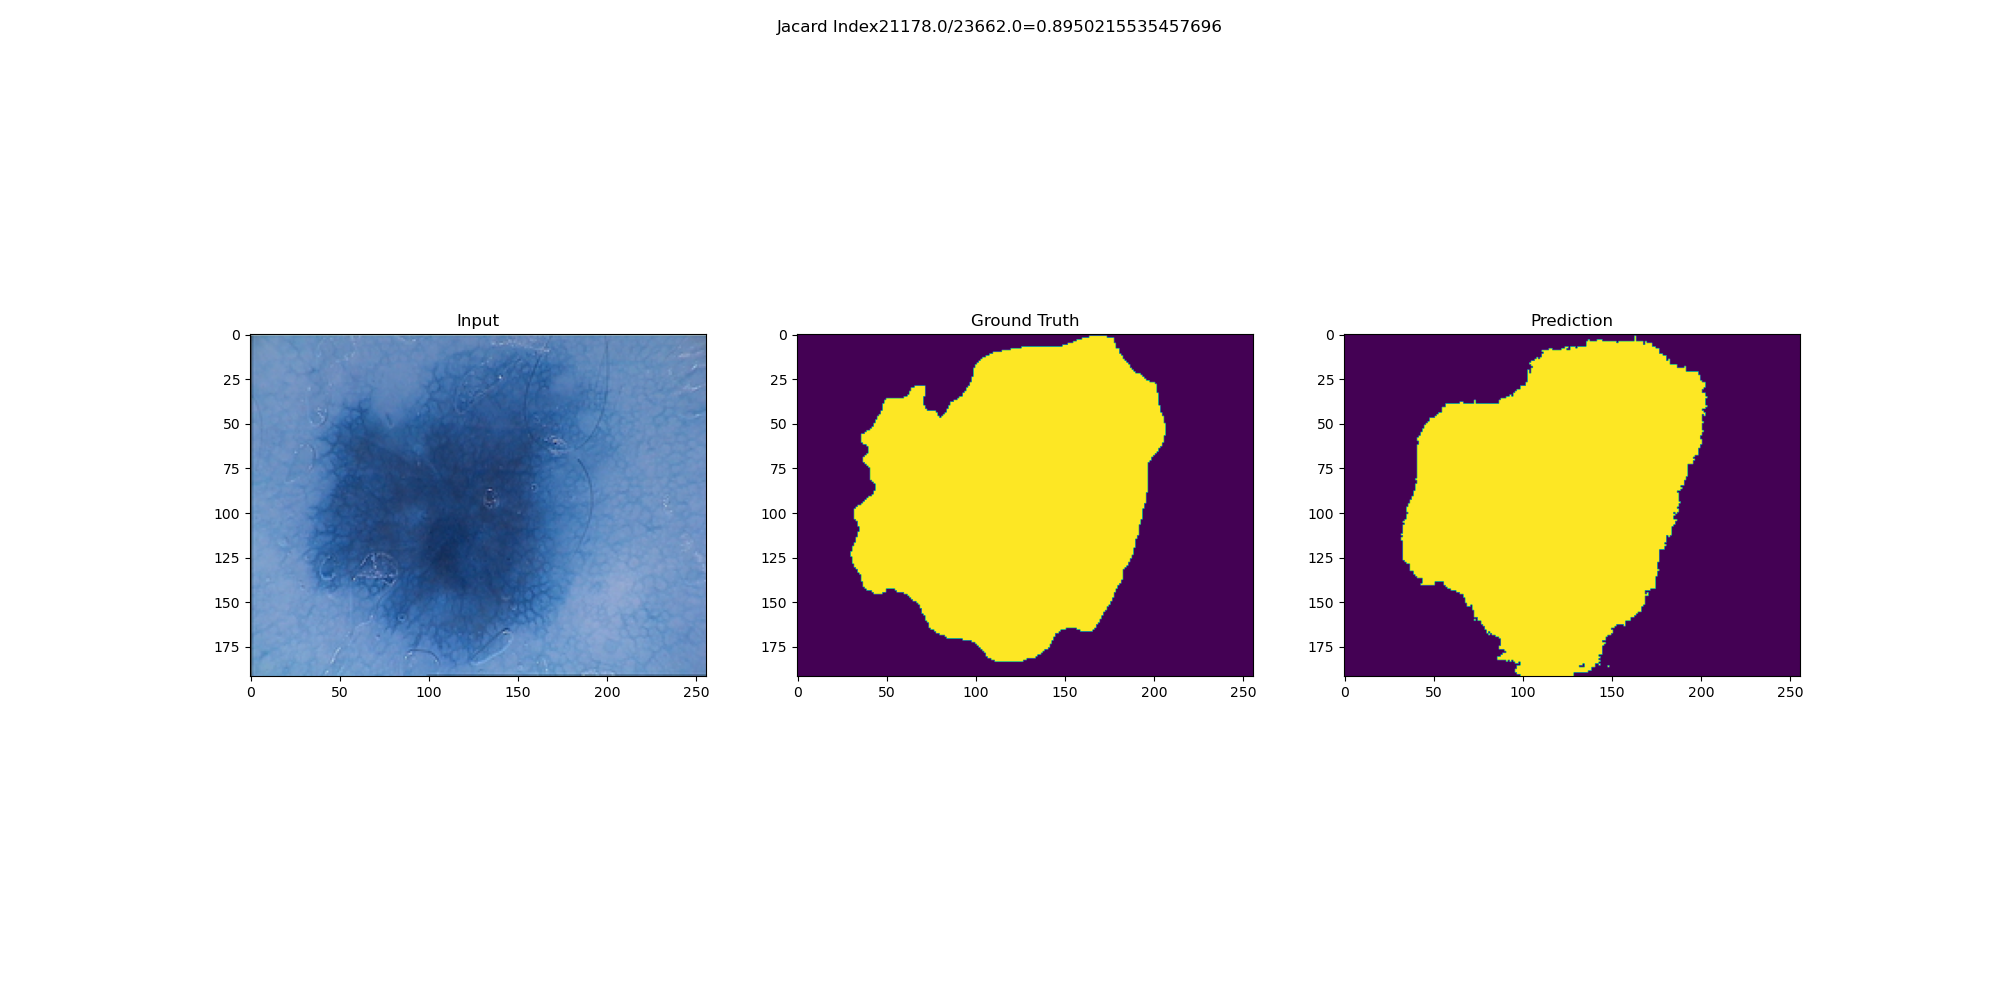
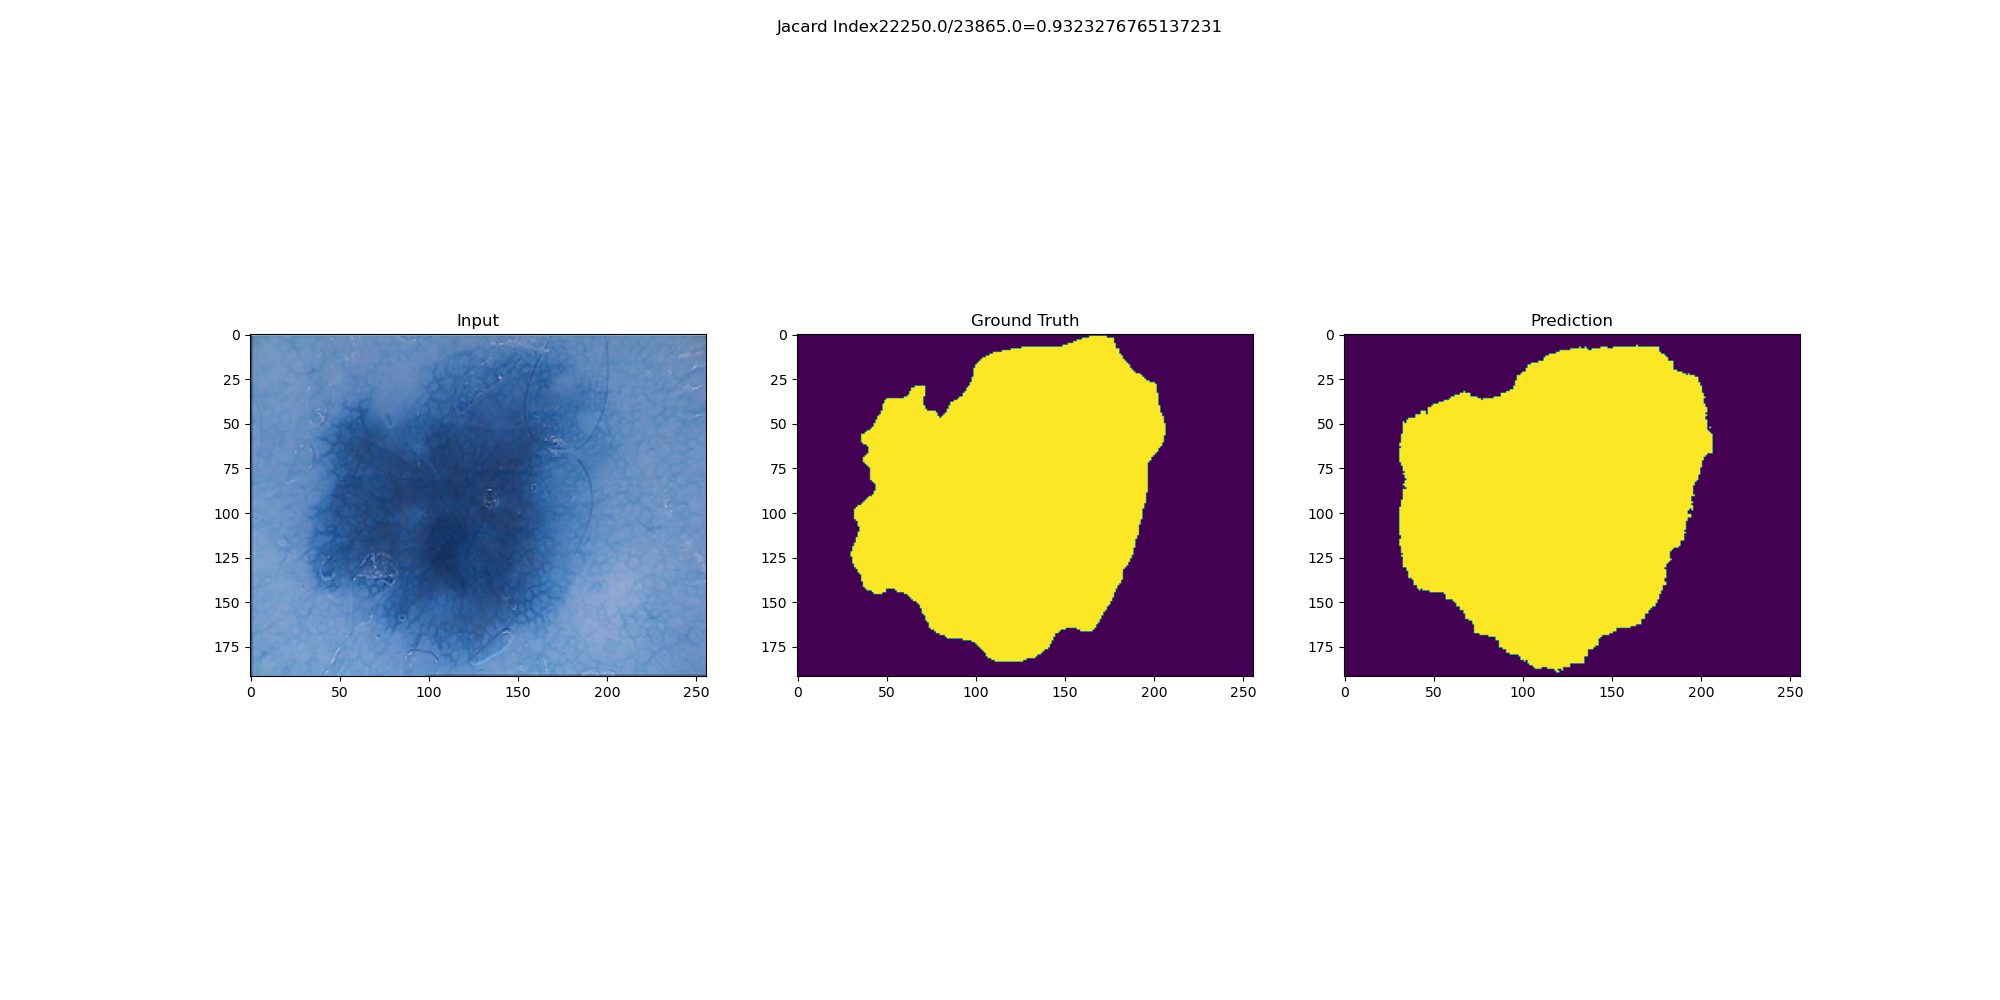
drrmsan 16

diff --git a/models/drrmsan_016.py b/models/drrmsan_016.py
@@ -233,7 +233,7 @@ def proposed_attention_block_2d(ms_conv, res_block, filters):
     output_ms_conv_res_block_rb = multiply([resampler_down_upper_rb, resampler_down_lower_rb])
     
     attn_outputs_mult = Activation('sigmoid')(multiply([output_ms_conv_res_block, output_ms_conv_res_block_rb]))
-    attn_output_1 = Conv2D(filters, (3, 3), strides=(1, 1), padding='same')(ZeroPadding2D(padding=(5,5))(UpSampling2D(size=(2, 2))(attn_outputs_mult)))
+    attn_output_1 = Conv2D(filters, (3, 3), strides=(1, 1), padding='same')(ZeroPadding2D(padding=(4,4))(UpSampling2D(size=(2, 2))(attn_outputs_mult)))
 
     theta_x_rb = Conv2D(filters, (3, 3), strides=(1, 1), padding='same')(theta_x_rb)
     attn_output = multiply([attn_output_1, theta_x_rb])
